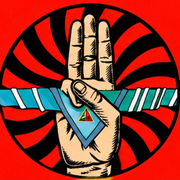
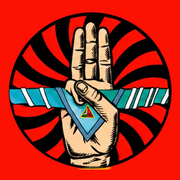
כלים למדריך (מה יש לי, מגריל משחקים, שאלות לדיון) + סמל למסך הבית

diff --git a/views.js b/views.js
@@ -1,4 +1,4 @@
-/* הדרכה בנשיא — shell, navigation, home, library, reader, my work */
+/* הדרכה בנשיא — shell, navigation, home, library, reader, my work */
 'use strict';
 
 /* ================================================================ navigation */
@@ -204,7 +204,10 @@ VIEWS.home = (main) => {
   ${recent.length ? `<section class="section"><div class="sec-head"><h2>נצפו לאחרונה</h2></div><div class="list">${recent.slice(0, 4).map(id => anyRow(id)).join('')}</div></section>` : ''}
   <section class="section"><div class="sec-head"><h2>כלים</h2></div>
     <div class="list">
-      <div class="row" role="button" tabindex="0" data-tool="groups"><span class="ic">${ic('shuffle')}</span><div class="bd"><h3>חלוקה לקבוצות</h3><div class="meta"><span>רשימת שמות ← קבוצות מאוזנות לסמינר, לתחנות או לאחוות</span></div></div></div>
+      <div class="row" role="button" tabindex="0" data-tool="have"><span class="ic">${ic('search')}</span><div class="bd"><h3>מה יש לי?</h3><div class="meta"><span>כמה זמן, איזה ציוד ולמי ← פעולות מהמאגר שמתאימות</span></div></div></div>
+      <div class="row" role="button" tabindex="0" data-tool="games"><span class="ic">${ic('shuffle')}</span><div class="bd"><h3>מגריל משחקים</h3><div class="meta"><span>נגמרה הפעולה מוקדם? משחק פתיחה, משחק לפעולה, לאוטובוס או למסלול</span></div></div></div>
+      <div class="row" role="button" tabindex="0" data-tool="questions"><span class="ic">${ic('book')}</span><div class="bd"><h3>שאלות לדיון</h3><div class="meta"><span>בוחרים נושא ← שאלות טובות לשיחה מתוך כל הפעולות במאגר</span></div></div></div>
+      <div class="row" role="button" tabindex="0" data-tool="groups"><span class="ic">${ic('users')}</span><div class="bd"><h3>חלוקה לקבוצות</h3><div class="meta"><span>רשימת שמות ← קבוצות מאוזנות לסמינר, לתחנות או לאחוות</span></div></div></div>
       <div class="row" role="button" tabindex="0" data-doc="pdf-trip-helper"><span class="ic">${ic('book')}</span><div class="bd"><h3>עזרים לכתיבת תיק טיול</h3><div class="meta"><span>משחקי אוטובוס ומסלול, משחקים משודרגים, זמני צופיות, שלבי נקודת מבט</span></div></div></div>
     </div>
   </section>`;
@@ -215,7 +218,8 @@ VIEWS.home = (main) => {
   main.addEventListener('click', e => {
     const t = e.target.closest('[data-topic]'); if (t) Nav.tab('library', { tab: 'act', topic: t.dataset.topic });
     const l = e.target.closest('[data-lib]'); if (l) Nav.tab('library', { tab: l.dataset.lib, sort: l.dataset.sort, q: '' });
-    const tl = e.target.closest('[data-tool]'); if (tl) openGroupsTool();
+    const tl = e.target.closest('[data-tool]');
+    if (tl) ({ groups: () => openGroupsTool(), have: openHaveTool, games: openGameTool, questions: openQuestionsTool })[tl.dataset.tool]?.();
   });
   return { onRemote: () => render(false) };
 };
@@ -908,6 +912,170 @@ function openGroupsTool(plan) {
         if (plan) { plan.groups = keep; Store.put(plan, { quiet: true }); } else LS.set('groups', keep);
       };
       s.querySelector('#gr-copy').onclick = () => result && copyText(result.map((g, i) => `קבוצה ${i + 1}:\n${g.join('\n')}`).join('\n\n'), 'החלוקה הועתקה');
+    },
+  });
+}
+
+/* ================================================================ live tools for the counselor */
+const shuffled = a => { const s = [...a]; for (let i = s.length - 1; i > 0; i--) { const j = Math.floor(Math.random() * (i + 1)); [s[i], s[j]] = [s[j], s[i]]; } return s; };
+const chipRow = (name, opts, cur) => `<div class="filters" role="group" data-chips="${name}" style="margin-inline:0;padding-inline:0;flex-wrap:wrap">${opts.map(([v, l]) => `<button class="chip" data-v="${esc(v)}" aria-pressed="${String(v) === String(cur)}">${esc(l)}</button>`).join('')}</div>`;
+function bindChips(root, onPick) {
+  root.addEventListener('click', e => {
+    const b = e.target.closest('[data-chips] .chip'); if (!b) return;
+    const g = b.closest('[data-chips]');
+    for (const x of g.querySelectorAll('.chip')) x.setAttribute('aria-pressed', x === b);
+    onPick(g.dataset.chips, b.dataset.v);
+  });
+}
+
+/* how long an activity runs: its own field, or the sum of its parts */
+function actMinutes(d) {
+  if (d.minutes) return d.minutes;
+  const s = (d.segments || []).reduce((t, x) => t + (+x.minutes || 0), 0);
+  return s >= 10 ? s : null;
+}
+const BASIC_EQUIP = /דף|דפים|עט|טוש|פתק|לורד|נייר|מדבק|מעטפ|מודפס|להדפיס|הדפס|שאלות|בריסטול|מספרי|דבק|ססל|פתיבר|טלפון|רמקול/;
+function equipLevel(d) {
+  const e = (d.equipment || []).filter(x => /[\u05d0-\u05eaA-Za-z]/.test(x));
+  if (!e.length) return 'none';
+  return e.every(x => BASIC_EQUIP.test(x)) ? 'basic' : 'full';
+}
+
+/* 4 — "what do I have?": time, equipment, audience, topic -> matching activities */
+function openHaveTool() {
+  const st = Object.assign({ min: '45', eq: 'any', aud: 'any', topic: '' }, LS.get('have', {}));
+  const MIN = [['30', '30 דק׳'], ['45', '45 דק׳'], ['60', 'שעה'], ['90', 'שעה וחצי'], ['any', 'לא משנה']];
+  const EQ = [['basic', 'בלי ציוד / דפים ועטים'], ['any', 'יש לי ציוד']];
+  const AUD = [['any', 'כולם'], ['חניכים', 'חניכים'], ['חמישית', 'חמישית']];
+  const TOP = [['', 'כל נושא'], ...Lib.topics.map(t => [t, t])];
+  Sheet.show({
+    title: 'מה יש לי?', tall: true, body: `
+      <div class="field"><label>כמה זמן יש לפעולה?</label>${chipRow('min', MIN, st.min)}</div>
+      <div class="field"><label>ציוד</label>${chipRow('eq', EQ, st.eq)}</div>
+      <div class="field"><label>למי</label>${chipRow('aud', AUD, st.aud)}</div>
+      <div class="field"><label>נושא</label>${chipRow('topic', TOP, st.topic)}</div>
+      <div id="hv-out"></div>`,
+    onMount: s => {
+      const draw = () => {
+        LS.set('have', st);
+        const want = st.min === 'any' ? null : +st.min;
+        const res = [];
+        for (const d of Lib.activities()) {
+          if (st.aud !== 'any' && d.audience !== st.aud) continue;
+          if (st.topic && !(d.tags || []).includes(st.topic)) continue;
+          const lv = equipLevel(d);
+          if (st.eq === 'basic' && lv === 'full') continue;
+          const m = actMinutes(d);
+          let score = 1, why = [];
+          if (want) {
+            if (m == null) { score -= .45; why.push('משך לא צוין'); }
+            else { const diff = Math.abs(m - want); if (m > want * 1.35) continue; score -= Math.min(.9, diff / want); why.push(fmtMin(m)); }
+          } else if (m) why.push(fmtMin(m));
+          if (st.eq === 'basic') why.push(lv === 'none' ? 'בלי רשימת ציוד' : 'ציוד בסיסי');
+          if ((d.segments || []).length >= 2) score += .1;
+          if (d.goal) score += .1;
+          res.push({ d, score, why });
+        }
+        res.sort((a, b) => b.score - a.score);
+        const top = res.slice(0, 25);
+        s.querySelector('#hv-out').innerHTML = res.length
+          ? `<div class="muted" style="font-size:14px;margin:6px 0 8px">${want ? `${res.filter(r => !r.why.includes('משך לא צוין')).length} פעולות באורך מתאים, ועוד ${res.filter(r => r.why.includes('משך לא צוין')).length} שהאורך שלהן לא צוין` : `${res.length} פעולות מתאימות`}. הכי מתאימות למעלה.</div>
+             <div class="list">${top.map(({ d, why }) => `<div class="row" role="button" tabindex="0" data-hv="${d.id}"><span class="ic">${ic('bolt')}</span><div class="bd"><h3>${esc(d.title)}</h3><div class="meta">${[...why, ...(d.tags || []).slice(0, 1)].map(x => `<span>${esc(x)}</span>`).join('<i class="dot"></i>')}</div>${d.goal ? `<div class="snip">${esc(d.goal.slice(0, 120))}</div>` : ''}</div></div>`).join('')}</div>`
+          : `<p class="muted" style="margin-top:10px">אין פעולה שמתאימה בדיוק. נסו "לא משנה" בזמן או נושא אחר.</p>`;
+      };
+      bindChips(s, (k, v) => { st[k] = v; draw(); });
+      s.addEventListener('click', e => { const r = e.target.closest('[data-hv]'); if (r) { Sheet.close(true); Nav.go('doc', { id: r.dataset.hv }); } });
+      draw();
+    },
+  });
+}
+
+/* 2 — game randomizer: pick when, get a game, again and again without repeats */
+function openGameTool() {
+  const WHEN = [['warm', 'פתיחה וחימום'], ['activity', 'בתוך פעולה'], ['upgraded', 'משחק משודרג'], ['bus', 'אוטובוס'], ['route', 'מסלול'], ['any', 'הכל']];
+  const ROLES = { warm: ['warmup', 'opening'], activity: ['activity'], upgraded: ['upgraded'], bus: ['bus'], route: ['route'] };
+  const st = Object.assign({ when: 'warm', full: '1' }, LS.get('gametool', {}));
+  let bag = [], cur = null;
+  Sheet.show({
+    title: 'מגריל משחקים', tall: true, body: `
+      <div class="field"><label>מתי משחקים?</label>${chipRow('when', WHEN, st.when)}</div>
+      <div class="field">${chipRow('full', [['1', 'רק משחקים עם הסבר'], ['0', 'גם שמות בלבד']], st.full)}</div>
+      <div id="gm-out" style="margin-top:6px"></div>`,
+    foot: `<button class="btn primary" id="gm-go">${ic('shuffle')}הגרלה</button><button class="btn" id="gm-open" disabled>${ic('doc')}פתיחה מלאה</button><button class="btn" id="gm-copy" disabled aria-label="העתקה" title="העתקה" style="padding-inline:12px">${ic('copy')}</button>`,
+    onMount: s => {
+      const pool = () => Lib.comps.filter(c => c.type === 'game' && (st.when === 'any' || (ROLES[st.when] || []).includes(c.role)) && (st.full === '0' || (c.body || '').trim()));
+      const draw = () => {
+        const out = s.querySelector('#gm-out');
+        if (!cur) { out.innerHTML = `<p class="muted">${pool().length} משחקים בקטגוריה הזו. לחצו "הגרלה".</p>`; return; }
+        const from = cur.from && Lib.doc(cur.from);
+        out.innerHTML = `<div class="card" style="padding:16px">
+          <div class="tags" style="margin-bottom:8px"><span class="tag khaki">${esc(GAME_ROLES[cur.role] || 'משחק')}</span></div>
+          <h3 style="font:700 26px/1.1 var(--f-display,inherit);margin:0 0 8px">${esc(cur.title)}</h3>
+          <div class="prose">${renderMd((cur.body || '').slice(0, 1400)) || '<p class="muted">רק שם המשחק, בלי הסבר במקור.</p>'}</div>
+          ${from ? `<div class="faint" style="font-size:13px;margin-top:8px">מתוך: ${esc(from.title)}</div>` : ''}
+          <div class="faint" style="font-size:13px;margin-top:4px">נשארו ${bag.length} משחקים שעוד לא הוגרלו</div></div>`;
+        s.querySelector('#gm-open').disabled = s.querySelector('#gm-copy').disabled = false;
+      };
+      const roll = () => {
+        if (!bag.length) bag = shuffled(pool());
+        if (!bag.length) { cur = null; s.querySelector('#gm-out').innerHTML = '<p class="muted">אין משחקים בקטגוריה הזו.</p>'; return; }
+        cur = bag.pop(); draw();
+      };
+      bindChips(s, (k, v) => { st[k] = v; LS.set('gametool', st); bag = []; cur = null; s.querySelector('#gm-open').disabled = s.querySelector('#gm-copy').disabled = true; draw(); });
+      s.querySelector('#gm-go').onclick = roll;
+      s.querySelector('#gm-open').onclick = () => cur && openComp(cur.id);
+      s.querySelector('#gm-copy').onclick = () => cur && copyText(cur.title + '\n' + plainMd(cur.body || ''), 'המשחק הועתק');
+      draw();
+    },
+  });
+}
+
+/* 3 — discussion questions: topic or a word -> a fresh set, from several activities */
+function openQuestionsTool() {
+  const st = Object.assign({ topic: '', n: '5', q: '' }, LS.get('qtool', {}));
+  const TOP = [['', 'כל הנושאים'], ...Lib.topics.map(t => [t, t])];
+  let picked = [];
+  Sheet.show({
+    title: 'שאלות לדיון', tall: true, body: `
+      <div class="field"><label>נושא</label>${chipRow('topic', TOP, st.topic)}</div>
+      <div class="field"><label for="qt-q">או מילה (למשל: חרם, צבא, מסכים)</label><input class="input" id="qt-q" type="search" value="${esc(st.q)}" placeholder="לא חובה"></div>
+      <div class="field"><label>כמה שאלות</label>${chipRow('n', [['3', '3'], ['5', '5'], ['8', '8']], st.n)}</div>
+      <div id="qt-out"></div>`,
+    foot: `<button class="btn primary" id="qt-go">${ic('shuffle')}שאלות חדשות</button><button class="btn" id="qt-add" disabled>${ic('plus')}לפעולה שלי</button><button class="btn" id="qt-copy" disabled aria-label="העתקה" title="העתקה" style="padding-inline:12px">${ic('copy')}</button>`,
+    onMount: s => {
+      const all = () => {
+        const w = norm(st.q || '');
+        const out = [];
+        for (const c of Lib.comps) {
+          if (c.type !== 'questions') continue;
+          if (st.topic && !(c.tags || []).includes(st.topic)) continue;
+          for (const line of (c.body || '').split('\n')) {
+            const t = line.replace(/^\s*(?:[-*•]|\d+[.)])\s*/, '').replace(/\*\*/g, '').trim();
+            if (t.length < 12 || !/[?？]/.test(t)) continue;
+            if (w && !norm(t + ' ' + c.title).includes(w)) continue;
+            out.push({ t, c });
+          }
+        }
+        return out;
+      };
+      const roll = () => {
+        LS.set('qtool', st);
+        const pool = shuffled(all()), per = {}, n = +st.n; picked = [];
+        for (const x of pool) { if (picked.length >= n) break; if ((per[x.c.from] || 0) >= 2) continue; per[x.c.from] = (per[x.c.from] || 0) + 1; picked.push(x); }
+        for (const x of pool) { if (picked.length >= n) break; if (!picked.includes(x)) picked.push(x); }
+        const out = s.querySelector('#qt-out');
+        out.innerHTML = picked.length
+          ? `<ol class="prose" style="padding-inline-start:22px;margin-top:8px">${picked.map(x => { const d = Lib.doc(x.c.from); return `<li style="margin-bottom:10px">${esc(x.t)}${d ? `<div class="faint" style="font-size:12.5px">מתוך: ${esc(d.title)}</div>` : ''}</li>`; }).join('')}</ol>
+             <div class="faint" style="font-size:13px">${all().length} שאלות במאגר מתאימות לבחירה</div>`
+          : `<p class="muted" style="margin-top:10px">${st.q ? `אין במאגר שאלות לדיון עם המילה "${esc(st.q)}"${st.topic ? ' בנושא הזה' : ''}.` : 'אין עדיין שאלות לדיון בנושא הזה.'} נסו נושא אחר או מילה אחרת.</p>`;
+        s.querySelector('#qt-copy').disabled = s.querySelector('#qt-add').disabled = !picked.length;
+      };
+      bindChips(s, (k, v) => { st[k] = v; roll(); });
+      s.querySelector('#qt-q').addEventListener('input', debounce(e => { st.q = e.target.value.trim(); roll(); }, 350));
+      s.querySelector('#qt-go').onclick = roll;
+      s.querySelector('#qt-copy').onclick = () => copyText('שאלות לדיון:\n' + picked.map((x, i) => `${i + 1}. ${x.t}`).join('\n'), 'השאלות הועתקו');
+      s.querySelector('#qt-add').onclick = () => { const body = picked.map(x => '- ' + x.t).join('\n'); Sheet.close(true); insertFlow({ kind: COMP_TYPES.questions.k, title: 'שאלות לדיון' + (st.topic ? ' · ' + st.topic : ''), body }); };
+      roll();
     },
   });
 }

diff --git a/index.html b/index.html
@@ -7,8 +7,14 @@
 </head>
 <body>
 <title>הדרכה בנשיא</title>
-<link rel="icon" type="image/png" href="img/logo-64.png">
-<link rel="apple-touch-icon" href="img/icon-512.png">
+<link rel="icon" type="image/png" sizes="32x32" href="favicon-32.png">
+<link rel="icon" type="image/png" sizes="64x64" href="favicon-64.png">
+<link rel="apple-touch-icon" sizes="180x180" href="apple-touch-icon.png">
+<link rel="manifest" href="manifest.webmanifest">
+<meta name="apple-mobile-web-app-title" content="הדרכה בנשיא">
+<meta name="apple-mobile-web-app-capable" content="yes">
+<meta name="mobile-web-app-capable" content="yes">
+<meta name="apple-mobile-web-app-status-bar-style" content="black">
 <meta name="theme-color" content="#0B0B0B">
 <link rel="preconnect" href="https://fonts.googleapis.com">
 <link rel="preconnect" href="https://fonts.gstatic.com" crossorigin>
@@ -487,12 +493,12 @@ table.grid tfoot td{font-weight:700;background:var(--surface-2)}
 <div class="toast" id="toast" role="status" aria-live="polite"></div>
 <div class="splash" id="splash" aria-hidden="true"><div><img src="img/logo-192.png" alt="" onerror="this.onerror=null;this.src=this.src.replace('/img/','/')"><div class="t">הדרכה בנשיא</div></div></div>
 
-<script src="core.js?v=8"></script>
-<script src="views.js?v=8"></script>
-<script src="editor.js?v=8"></script>
-<script src="plan.js?v=8"></script>
-<script src="export.js?v=8"></script>
-<script src="boot.js?v=8"></script>
+<script src="core.js?v=9"></script>
+<script src="views.js?v=9"></script>
+<script src="editor.js?v=9"></script>
+<script src="plan.js?v=9"></script>
+<script src="export.js?v=9"></script>
+<script src="boot.js?v=9"></script>
 
 </body>
 </html>
